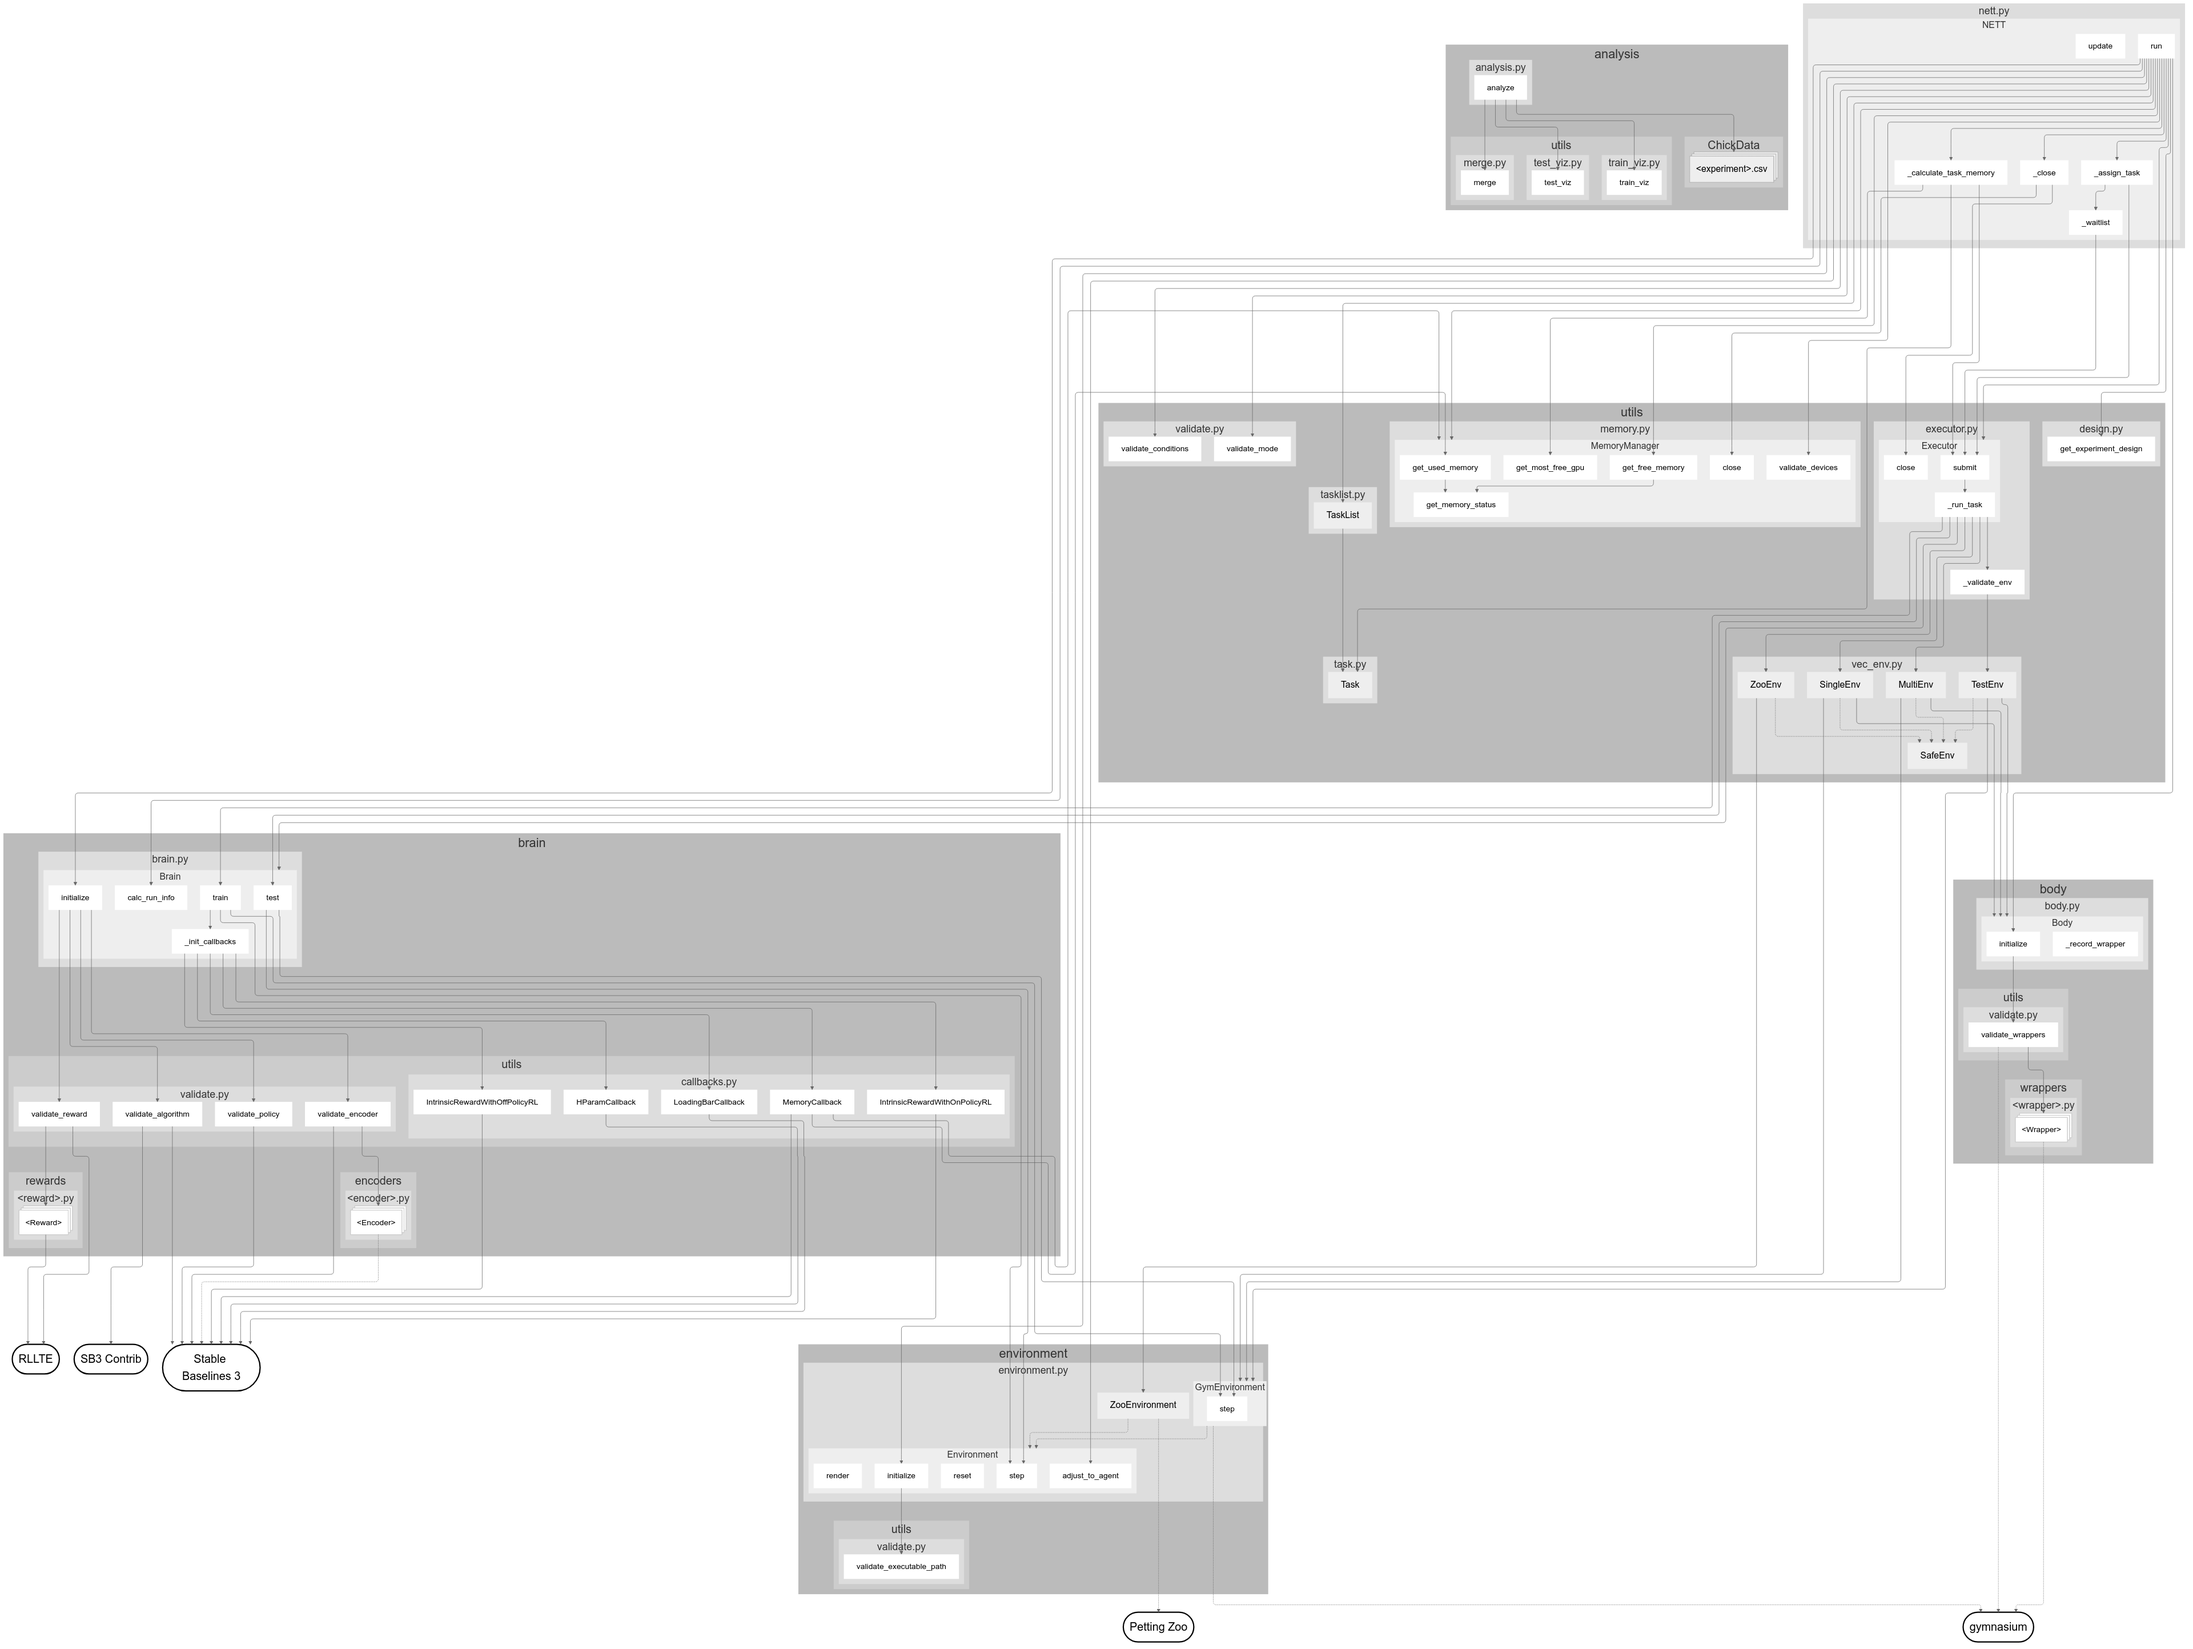
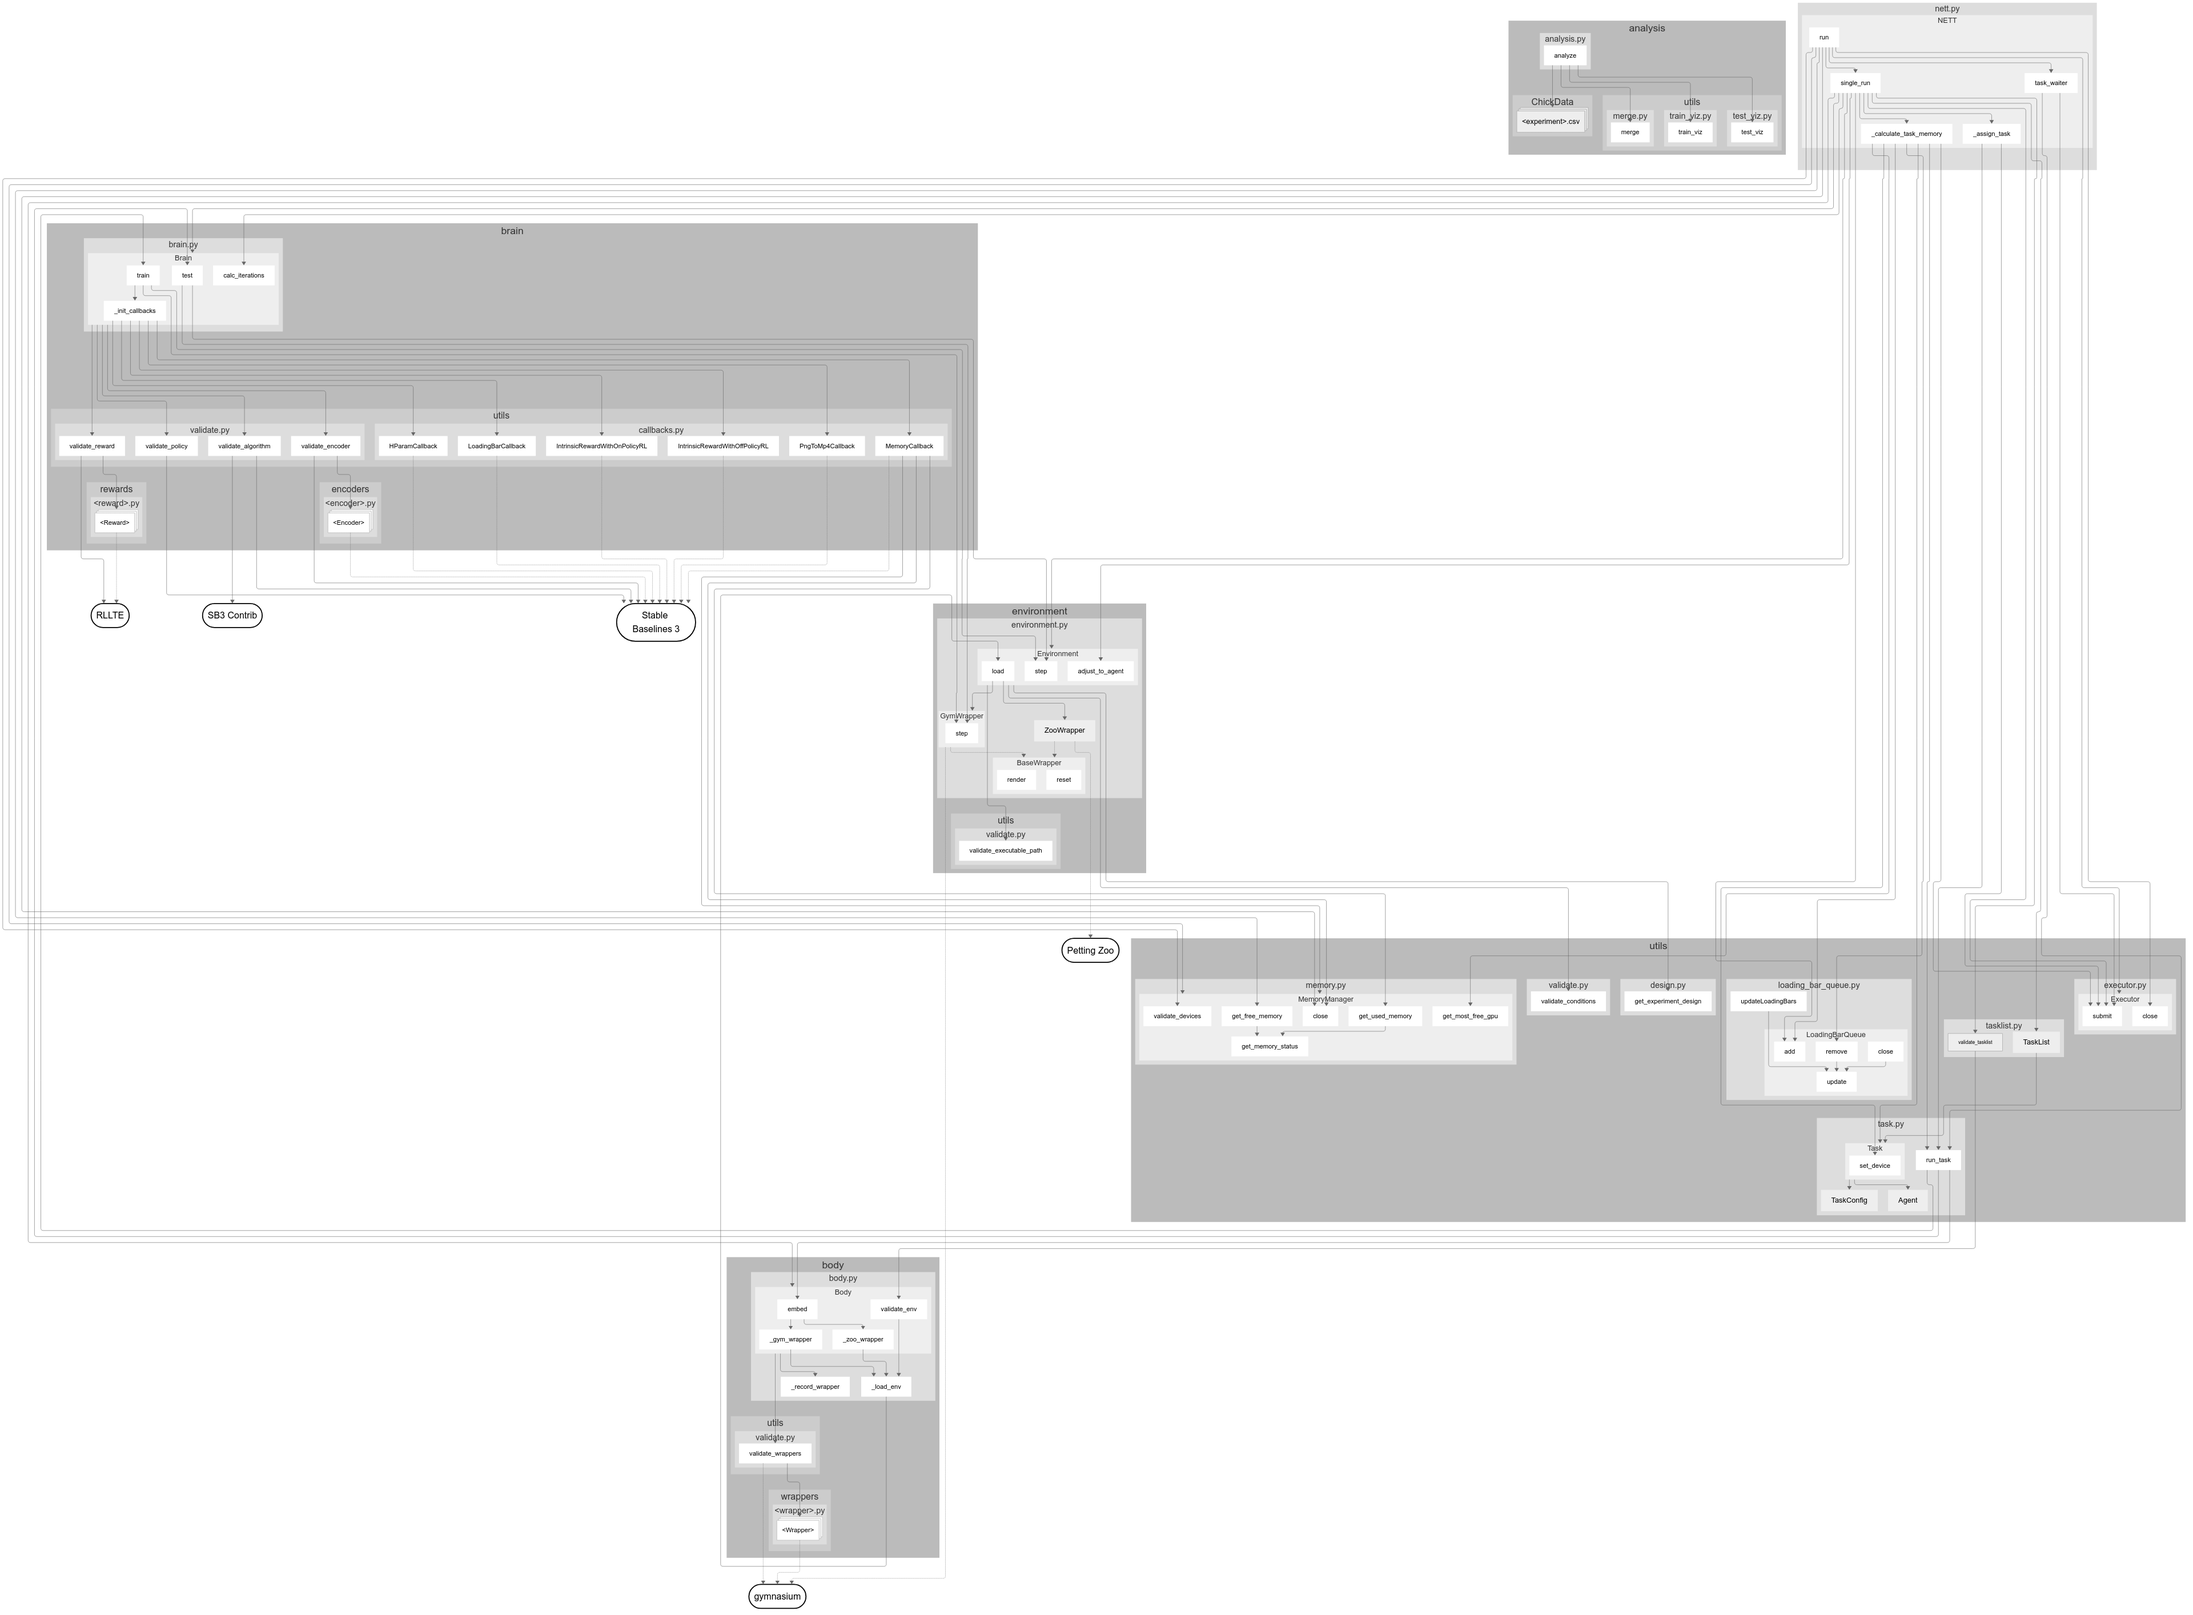
Updated architecture diagrams

diff --git a/docs/dev/full_architecture.md b/docs/dev/full_architecture.md
@@ -23,11 +23,18 @@ flowchart TB
         tasklist.py:::file
         subgraph tasklist.py
             TaskList:::clss
+            validate_tasklist
         end
 
         task.py:::file
         subgraph task.py
             Task:::clss
+            subgraph Task
+                set_device:::func
+            end
+            run_task:::func
+            TaskConfig:::clss
+            Agent:::clss
         end
 
         memory.py:::file
@@ -43,35 +50,35 @@ flowchart TB
             end
         end
 
-        vec_env.py:::file
-        subgraph vec_env.py
-            SafeEnv:::clss
-            MultiEnv:::clss
-            SingleEnv:::clss
-            TestEnv:::clss
-            ZooEnv:::clss
-        end
-
         executor.py:::file
         subgraph executor.py
-            _validate_env:::func
             Executor:::clss
             subgraph Executor
                 executor.submit[submit]:::func
                 executor.close[close]:::func
-                _run_task:::func
             end
         end
 
         validate.py:::file
         subgraph validate.py
             validate_conditions:::func
-            validate_mode:::func
         end
 
         design.py:::file
         subgraph design.py
             get_experiment_design:::func
+        end
+
+        loading_bar_queue.py:::file
+        subgraph loading_bar_queue.py
+            LoadingBarQueue:::clss
+            subgraph LoadingBarQueue
+                LoadingBarQueue.add[add]:::func
+                LoadingBarQueue.update[update]:::func
+                LoadingBarQueue.remove[remove]:::func
+                LoadingBarQueue.close[close]:::func
+            end
+            updateLoadingBars:::func
         end
     end
 
@@ -80,11 +87,10 @@ flowchart TB
         NETT:::clss
         subgraph NETT
             nett.run[run]:::func
-            update:::func
-            nett._close[_close]:::func
+            single_run:::func
             _assign_task:::func
             _calculate_task_memory:::func
-            _waitlist:::func
+            task_waiter:::func
         end
     end
     brain:::dir
@@ -93,8 +99,7 @@ flowchart TB
         subgraph brain.py
             Brain:::clss
             subgraph Brain
-                Brain.initialize[initialize]:::func
-                calc_run_info:::func
+                calc_iterations:::func
                 train:::func
                 test:::func
                 _init_callbacks:::func
@@ -116,6 +121,7 @@ flowchart TB
                 MemoryCallback:::func
                 IntrinsicRewardWithOnPolicyRL:::func
                 IntrinsicRewardWithOffPolicyRL:::func
+                PngToMp4Callback:::func
             end
         end
         brain.encoders:::subdir
@@ -139,9 +145,13 @@ flowchart TB
         subgraph body.py
             Body:::clss
             subgraph Body
-                Body.initialize[initialize]:::func
-                _record_wrapper:::func
+                embed:::func
+                validate_env:::func
+                _zoo_wrapper:::func
+                _gym_wrapper:::func
             end
+            _record_wrapper:::func
+            _load_env:::func
         end
         body.utils:::subdir
         subgraph body.utils[utils]
@@ -164,17 +174,20 @@ flowchart TB
         subgraph environment.py
             Environment:::clss
             subgraph Environment
-                Environment.initialize[initialize]:::func
+                Environment.load[load]:::func
                 adjust_to_agent:::func
-                render:::func
-                reset:::func
                 Environment.step[step]:::func
             end
-            GymEnvironment:::clss
-            subgraph GymEnvironment
-                GymEnvironment.step[step]:::func
+            BaseWrapper:::clss
+            subgraph BaseWrapper
+                BaseWrapper.render[render]:::func
+                BaseWrapper.reset[reset]:::func
             end
-            ZooEnvironment:::clss
+            ZooWrapper:::clss
+            GymWrapper:::clss
+            subgraph GymWrapper
+                GymWrapper.step[step]:::func
+            end
         end
         environment.utils:::subdir
         subgraph environment.utils[utils]
@@ -223,51 +236,58 @@ flowchart TB
     class Encoder,Wrapper,Reward stack
     style experiment fill:#eee,stroke:#bbb,font-size:16pt
 
-    nett.run --> Brain.initialize & Body.initialize & Environment.initialize & get_experiment_design & validate_mode & calc_run_info & adjust_to_agent & MemoryManager & validate_conditions & validate_devices & TaskList & nett._close
-    Brain.initialize --> validate_algorithm & validate_encoder & validate_policy & validate_reward
-    Body.initialize --> validate_wrappers
+    nett.run --> MemoryManager & MemoryManager.close & validate_devices & single_run & get_free_memory & task_waiter & Executor & executor.close
+    single_run --> Brain & Body & Environment & calc_iterations & adjust_to_agent & _calculate_task_memory & TaskList & LoadingBarQueue.add & executor.submit & validate_tasklist & _assign_task
+
+    Brain --> validate_algorithm & validate_encoder & validate_policy & validate_reward
+    Body --> validate_wrappers
     validate_wrappers --> Wrapper
 
-    Environment.initialize --> validate_executable_path
+    embed --> _gym_wrapper & _zoo_wrapper
+    validate_tasklist --> validate_env
 
-    _calculate_task_memory --> get_most_free_gpu
-    nett.run --> get_free_memory & _calculate_task_memory & _assign_task & Executor
-    _validate_env --> TestEnv
-    _run_task --> Brain & ZooEnv & SingleEnv & MultiEnv & train & test & _validate_env
-    ZooEnv --> ZooEnvironment
-    SingleEnv & MultiEnv & TestEnv --> GymEnvironment & Body
+    Environment --> validate_conditions & validate_executable_path & get_experiment_design
 
-    TaskList & _calculate_task_memory --> Task
+    _calculate_task_memory --> get_most_free_gpu & Task & set_device & LoadingBarQueue.add & LoadingBarQueue.remove
+    validate_env & _zoo_wrapper & _gym_wrapper --> _load_env
+    run_task --> embed & train & test
+    Environment.load --> GymWrapper & ZooWrapper
 
-    _assign_task --> _waitlist
-    _assign_task & _waitlist & _calculate_task_memory --> executor.submit
+    TaskList --> Task
 
-    nett._close --> MemoryManager.close & executor.close
-    executor.submit --> _run_task
+    LoadingBarQueue.remove & LoadingBarQueue.close & updateLoadingBars --> LoadingBarQueue.update
+
+    _calculate_task_memory & task_waiter & _assign_task --> executor.submit & run_task
 
     get_free_memory & get_used_memory--> get_memory_status
 
-    train & test --> GymEnvironment.step & Environment.step
-    GymEnvironment & ZooEnvironment -.-> Environment
-    ZooEnvironment -.-> zoo
-
-    MultiEnv & SingleEnv & TestEnv & ZooEnv-.-> SafeEnv
+    train & test --> GymWrapper.step & Environment.step
+    GymWrapper & ZooWrapper -.-> BaseWrapper
+    ZooWrapper -.-> zoo
 
     train --> _init_callbacks
 
     validate_algorithm & validate_encoder & validate_policy --> sb3
     Encoder -.-> sb3
     validate_algorithm --> sb3_contrib
-    validate_reward & Reward --> rllte
+    validate_reward --> rllte
+    Reward -.-> rllte
 
     validate_encoder --> Encoder
     validate_reward --> Reward
 
-    Wrapper & GymEnvironment & validate_wrappers -.-> gym
+    Wrapper & GymWrapper & validate_wrappers -.-> gym
 
     analyze --> experiment & merge & train_viz & test_viz
 
-    _init_callbacks --> MemoryCallback & HParamCallback & LoadingBarCallback & IntrinsicRewardWithOnPolicyRL & IntrinsicRewardWithOffPolicyRL --> sb3
-    MemoryCallback --> MemoryManager
+    _init_callbacks --> MemoryCallback & HParamCallback & LoadingBarCallback & IntrinsicRewardWithOnPolicyRL & IntrinsicRewardWithOffPolicyRL & PngToMp4Callback -.-> sb3
+    MemoryCallback --> MemoryManager & MemoryManager.close
     MemoryCallback --> get_used_memory
+
+    Body--> _record_wrapper
+
+    _load_env --> Environment.load
+
+    Task --> TaskConfig & Agent
+
 ```

diff --git a/docs/dev/simple_architecture.md b/docs/dev/simple_architecture.md
@@ -8,14 +8,11 @@ config:
   layout: elk
 ---
 
-
 flowchart LR
 
-NETT -- initialize --> Brain & Body & Environment
+NETT -- initialize --> Brain & Body & Environment 
 NETT -- run tasks in parallel --> Executor
-Executor -- safely wrap environment --> vec_env
-vec_env -- start environment -->  Environment
-vec_env -- wrap environment -->  Body
+Executor -- wrap environment -->  Body
+Body -- start environment --> Environment
 Executor -- run environment --> Brain
-
 ```
